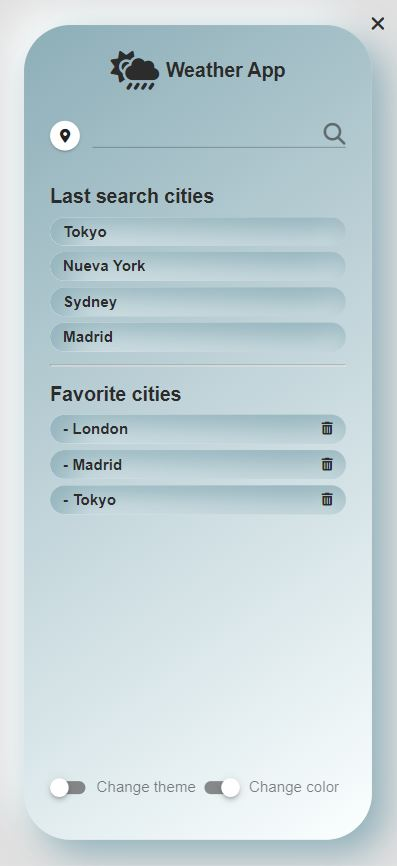
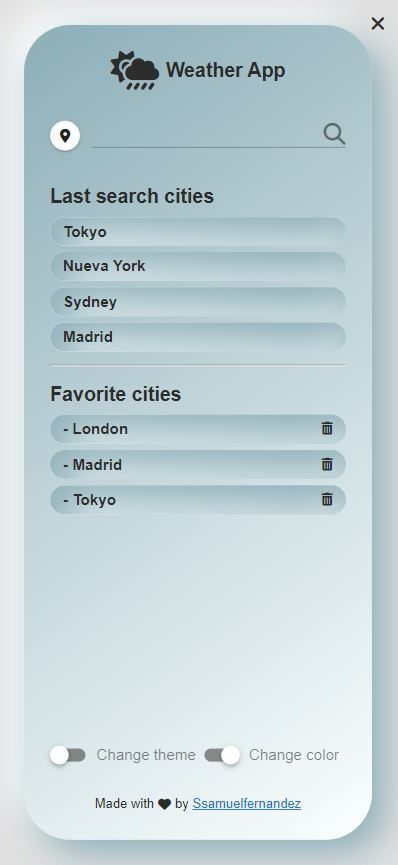
Add madeBy

diff --git a/src/views/forecast.vue b/src/views/forecast.vue
@@ -17,7 +17,7 @@
                         </div>
                         <div class="forecastHours">
                             <h2>{{ getDateInfo(forecast.dt).time }}</h2>
-                            
+
                             <div class="more-info-forecast">
                                 <i class="fa-solid fa-temperature-quarter"></i>
                                 <p>{{ forecast.main.temp }}°C</p>
@@ -41,6 +41,7 @@
             </div>
 
         </div>
+
     </div>
 </template>
 

diff --git a/src/views/search.vue b/src/views/search.vue
@@ -42,6 +42,7 @@
                 <v-switch hide-details="true" :model-value="style === 'color'" label="Change color"
                     @change="toggleStyle"></v-switch>
             </div>
+            <p class="madeBy">Made with <i class="fa-solid fa-heart"></i> by <a href="https://github.com/Ssamuelfernandez">Ssamuelfernandez</a></p>
         </div>
     </div>
 </template>

diff --git a/src/assets/style.css b/src/assets/style.css
@@ -320,5 +320,19 @@
         -10px -10px 30px var(--box-light);
 }
 
+.madeBy {
+    display: flex;
+    justify-content: center;
+    align-items: center;
+    gap: 0.3em;
+}
+
+.madeBy a {
+    color: rgb(32, 116, 212)
+}
+
+.madeBy a:hover {
+    color: brown;
+}
 
 
